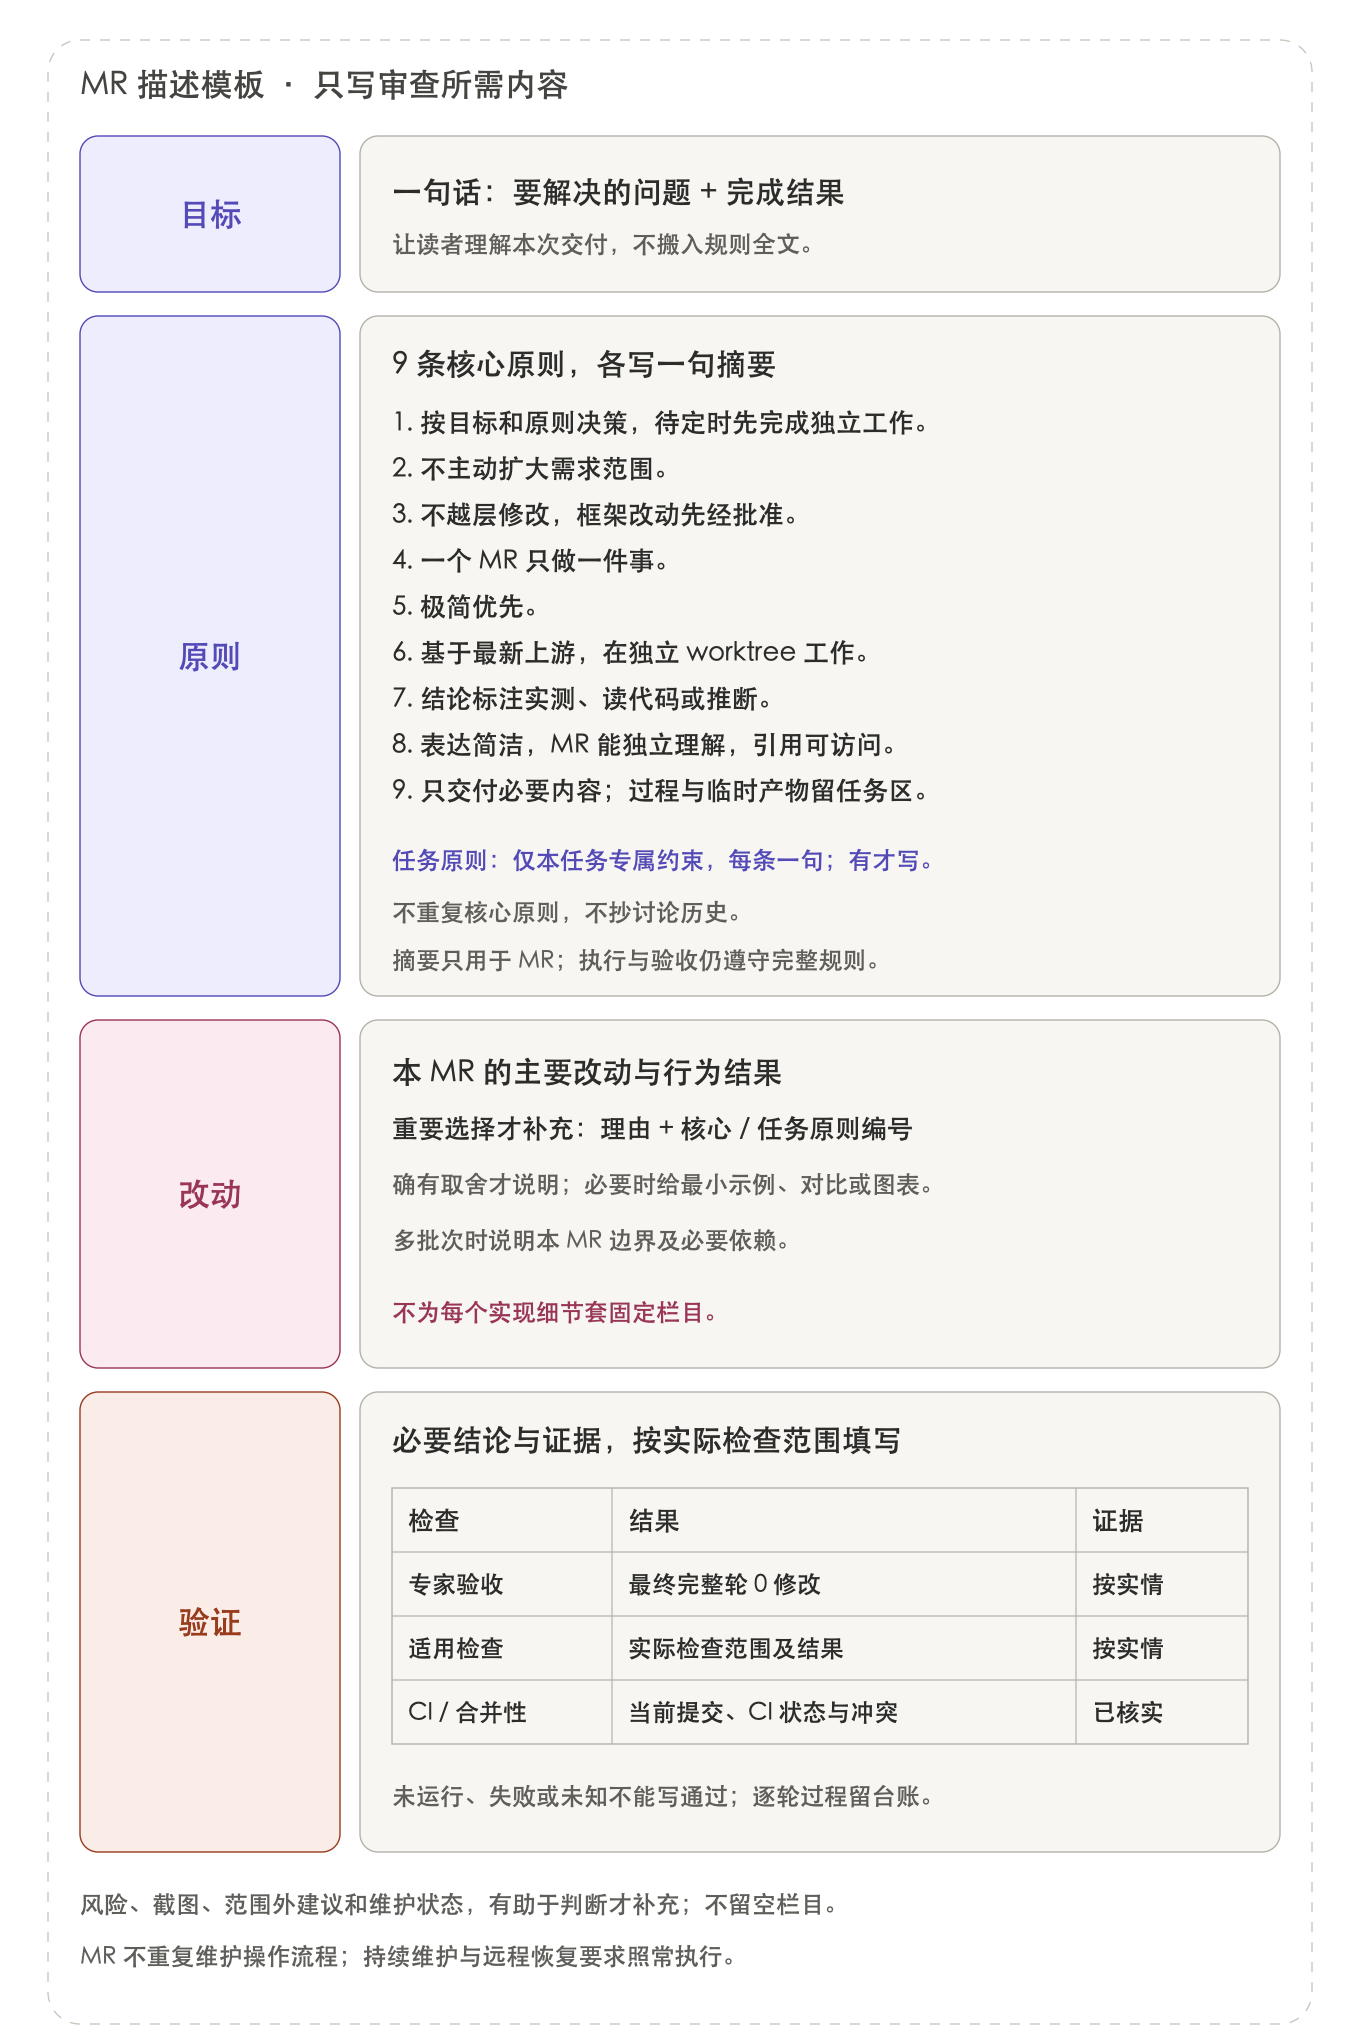
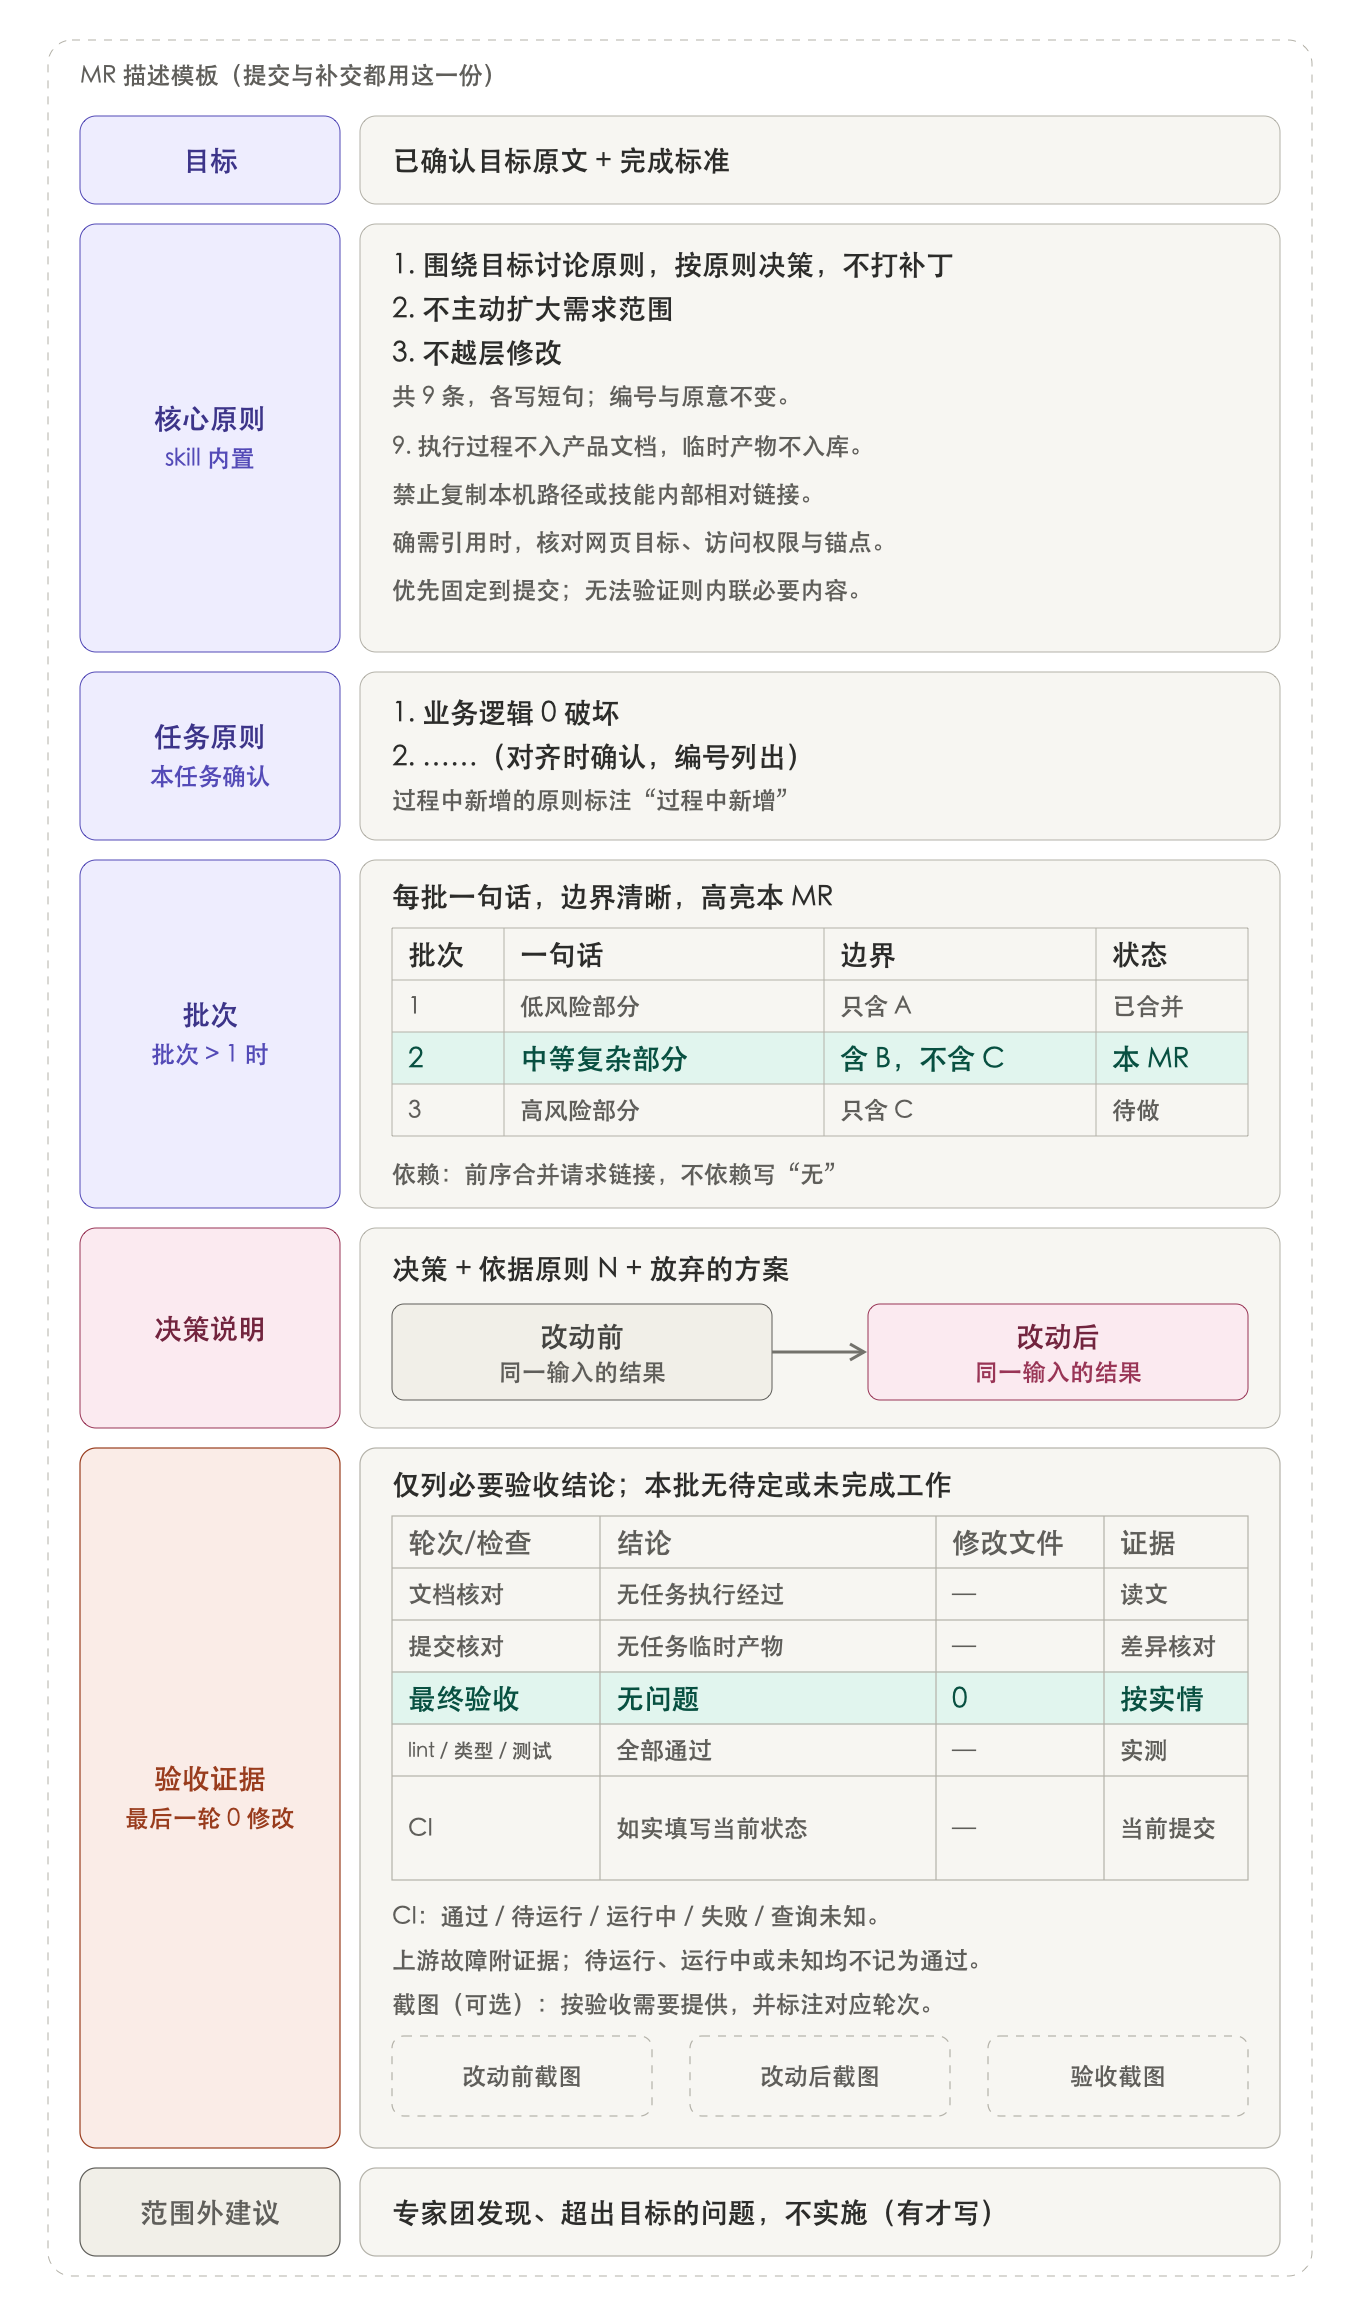
Publish design-preserving MR template snapshot b5622bd

diff --git a/align-deliver/references/mr-template.md b/align-deliver/references/mr-template.md
@@ -1,50 +1,81 @@
 # MR 描述模板
 
-提交、更新或补交 MR 都用这四节。正文帮助读者审查本次交付，不复制技能全文或执行手册。
+提交、更新或补交 MR 用同一模板。保持原有结构和信息要求，只精简措辞；批次 > 1 才列批次表，截图和范围外建议有才写。Agent 的执行、调度与后续维护安排不作为 MR 栏目。
 
 ````markdown
 ## 目标
 
-<一句话说明要解决的问题和完成结果>
+<一句话目标；用户已明确时写其原文>
 
-## 原则
+完成标准：<可验证的结果>
 
-核心原则：
+## 核心原则
 
-1. 按目标和原则决策，待定时先完成独立工作。
-2. 不主动扩大需求范围。
-3. 不越层修改，框架改动先经批准。
-4. 一个 MR 只做一件事。
-5. 极简优先。
-6. 基于最新上游，在独立 worktree 工作。
+1. 围绕目标和原则讨论，用户确认后开工；AI 定细节，待定先完成独立工作，不假定答案、不打补丁。
+2. 范围由目标和原则决定，不预设例外；范围外发现记录、不实施。
+3. 业务问题不越层改框架，框架改动先经用户批准。
+4. 一个 MR 只做一件事，顺手问题单独记录。
+5. 极简优先：最小 API 和示例，复杂就重新设计。
+6. 从最新上游建独立 worktree，方案和代码基于最新代码。
 7. 结论标注实测、读代码或推断。
-8. 表达简洁，MR 能独立理解，引用可访问。
-9. 只提交交付所需内容，任务执行经过和临时产物留在任务工作区。
+8. 中文先给结论和最小示例，能画就画、新概念先解释、一次一问；删去冗余，正文自包含，不用本机路径或技能内部相对链接。
+9. 产品文档不写任务经过，临时产物不入库；只交付已确认目标所需且有实际持续用途的内容，不以改名或未来复用放行。
 
-任务原则（有才写）：<仅列已确认的本任务专属约束，每条一句话>
+## 任务原则
 
-## 改动
+1. <完整列出已确认的任务原则，每条一句话>
+2. <新增原则>（过程中新增）
 
-- <本 MR 的主要改动及行为结果>
-- <重要选择才补充理由及依据的核心/任务原则编号>
+## 批次
 
-## 验证
+| 批次 | 一句话 | 边界 | 状态 |
+|---|---|---|---|
+| 1 | <做什么> | <含什么、不含什么> | <真实状态；本 MR 行加粗> |
 
-| 检查 | 结果 | 证据 |
-|---|---|---|
-| 专家验收 | <最终一轮结论与文件修改数；通过须为 0> | <实测 / 读代码 / 推断> |
-| 适用检查 | <实际检查范围与结果> | <实测 / 读代码 / 推断> |
-| CI 与合并性 | <当前提交、流水线状态、与最新上游是否冲突> | <已核实的链接或结果> |
+依赖：<前序 MR 链接；无则写“无”>
 
-<有助于判断的风险、未覆盖范围或待处理事项；无则不写>
+## 决策说明
+
+### 决策 1：<选择>
+
+- 依据：<核心 / 任务原则编号>
+- 理由：<一句话>
+- 放弃的方案：<方案及原因>
+
+改动前：
+
+```text
+<输入 → 原结果>
+```
+
+改动后：
+
+```text
+<同一输入 → 新结果>
+```
+
+## 验收证据
+
+| 检查 | 结论 | 修改文件 | 证据 |
+|---|---|---|---|
+| 文档内容 | <交付后有效说明，无任务执行经过> | — | 阅读 |
+| 提交范围 | <必要交付内容，无任务临时产物> | — | 差异核对 |
+| 最终专家验收 | <最终完整轮结论；通过须 0 修改> | <数量> | <实测 / 读代码 / 推断> |
+| lint / 类型 / 测试 | <实际范围与结果> | — | 实测 |
+| CI 与合并性 | <当前提交、流水线状态、与最新上游是否冲突> | — | <已核实结果或链接> |
+
+截图（可选）：<图片及验收轮次>
+
+## 范围外建议
+
+- <专家发现的范围外问题，未实施>
 ````
 
 ## 填写要求
 
-- 核心原则保留全部编号，每条只写一句摘要；完整规则仍按技能执行。任务原则只写本任务专属约束，不重复核心原则或抄录讨论历史。正文自包含是让读者理解改动，不是搬入规则全文。
-- 改动只描述本 MR 的有效交付。重要选择简写理由与原则依据；确有取舍才说明，确有助于理解才给最小示例、前后对比或图表，不为每个实现细节套固定栏目。
-- 多批次时说明本 MR 的边界及必要依赖；前序 MR 已终态时如实写明。风险、截图、范围外建议或维护状态仅在有助于审查时补充；维护只写当前事实或阻塞，不重复操作流程，不留空栏目。
-- 验证按实际范围和证据填写；最终完整专家验收须为 0 修改，CI 必须对应当前源提交。排队、运行中、失败或未知不能写通过；必要时注明上游故障及证据。逐轮过程和完整日志留台账。
-- 按核心原则 9 核对实际差异和产品文档，任务执行过程及临时产物不入库；按已确认目标和实际持续用途判断，不能靠改名或未来可能复用放行。MR 不复制本机路径或技能内部相对链接；必要引用须核对网页内容、访问性与锚点，无法核实则内联必要说明。
-
-模板精简只改变 MR 的表达；提交、失败恢复和覆盖全部 MR 的持续维护仍按技能流程执行。
+- 九条核心原则保留编号和原意，各用短句，不搬入长解释；完整规则照常执行。任务原则完整列出，不遗漏已确认约束；过程中新增的原则保留标记。
+- 每个决策分开列，分别写依据、理由、放弃方案及一组同一输入的前后结果；示例只留能看出差别的几行。需要解释修复时写明对应原则，说不出违反哪条原则的修改，就不该改。
+- 批次和边界沿用台账，只更新真实状态，本 MR 行加粗；新 MR 只描述未交付差异，保留承接关系，已合并的旧 MR 不写成待合并依赖。
+- MR 保留最终完整轮 0 修改结论和必要证据；逐轮执行、排障和完整日志留台账。CI 对应当前源提交；未运行、运行中、失败或未知不写通过。上游故障附证据，保持待恢复，不扩范围修复。
+- 按原则 9 审查文档及真实差异：正式代码、文档、测试和工具须属于已确认目标且有实际持续用途；任务过程产物不入库，改名或未来可能复用不能放行。
+- 正文自包含，不复制本机路径或技能内部相对链接。必要网页引用核对内容、权限与锚点，优先固定到提交；无法核实则内联必要说明，不编造链接。

diff --git a/align-deliver/references/core-principles.md b/align-deliver/references/core-principles.md
@@ -1,6 +1,6 @@
 # 核心原则
 
-每个对齐交付任务都适用。对齐阶段按编号逐条复述，专家团按完整规则逐条验收；MR 中保留全部编号，每条只写一句摘要，不复制以下解释。提交后的维护仍遵守这些原则：有工作先做，远程失败保留恢复路径，直到本任务全部 MR 已合并、关闭或取消。
+每个对齐交付任务都适用。对齐阶段按编号逐条复述，MR 描述中按编号完整列出短句，不复制长解释，专家团按编号逐条验收。提交后的维护仍遵守这些原则：有工作先做，远程失败保留恢复路径，直到本任务全部 MR 已合并、关闭或取消。
 
 1. **围绕目标讨论原则，按原则决策，不打补丁**：需求和讨论都只围绕目标讨论原则，不讨论细节。用户定目标、原则和开工，初始对齐必须先确认；AI 定原则之内的细节，并写明依据哪条原则。开工后遇到原则缺失或冲突，只暂停依赖该原则的部分，先完成并验证独立工作，再讨论仍然阻塞任务的问题；没有可独立推进的工作时立即提问。不得假定待定原则的答案或把未决项算作完成；讨论只问原则、附最小示例，不让用户选实现方案，也不打补丁。
 2. **不主动扩大需求范围**：范围由目标和原则决定，原则要求覆盖的都在范围内，不能预设例外；超出目标的发现只记为“范围外建议”，不实施。
@@ -9,6 +9,6 @@
 5. **极简优先**：先给最小的 API、最小的示例；感觉复杂就回退重新设计。
 6. **以最新上游为准，独立 worktree**：每个任务在独立 worktree 中工作，从同步后的最新上游拉分支；方案和代码都基于最新代码。
 7. **结论标注证据等级**：实测 / 读代码 / 推断。
-8. **讲清楚**：先给一句话结论，示例和图表只在帮助判断时提供；必要的新概念先解释，全程中文，删去不影响判断的信息，一次只问一个问题。MR 正文须简洁且能独立理解，不复制本机路径或技能内部相对链接。
+8. **讲清楚**：先给一句话结论，再给最小示例；适合比较或说明关系时使用图表，必要的新概念先解释，全程中文，删去不影响判断的信息，一次只问一个问题。MR 正文须能独立理解，不复制本机路径或技能内部相对链接。
 
 9. **交付内容不混入任务执行过程**：产品文档只写交付后仍有效的说明，不写任务实施、临时排障和验收执行的经过。仅服务本次任务的初始化脚本、基线准备、临时验证脚本、过程日志、报告、截图及状态等产物留在任务工作区，不提交到交付仓库。入库内容必须属于已确认的交付目标，并在任务结束后仍有实际使用或维护价值；不能以改名或“以后可复用”为由提交过程产物。必要的验收结论和证据放在 MR 交付说明或任务台账。

diff --git a/README.md b/README.md
@@ -1,21 +1,21 @@
 # align-deliver
 
-对齐交付技能的独立公开分发。固定版本：`bc853b194d120a569040d95ea164e5251040eaad`。
+对齐交付技能的独立公开分发。固定版本：`b5622bd257facc8250cb817c766571373324335c`。
 
 先对齐目标和原则，再研发、专家验收与提交 MR；有工作先做，远程失败按检查点恢复，持续维护全部 MR。旧 MR 已终态后的新工作转入新分支与新 MR。
 
 ## 下载
 
-- [完整安装包](https://github.com/lzxb/align-deliver/releases/download/v2026.10.24-bc853b1/align-deliver-bc853b1.zip)：仅包含 `align-deliver/` 下已验收的 10 个文件。
-- [SHA256SUMS](https://github.com/lzxb/align-deliver/releases/download/v2026.10.24-bc853b1/SHA256SUMS)
-- [版本发布页](https://github.com/lzxb/align-deliver/releases/tag/v2026.10.24-bc853b1)
+- [完整安装包](https://github.com/lzxb/align-deliver/releases/download/v2026.10.24-b5622bd/align-deliver-b5622bd.zip)：仅包含 `align-deliver/` 下已验收的 10 个文件。
+- [SHA256SUMS](https://github.com/lzxb/align-deliver/releases/download/v2026.10.24-b5622bd/SHA256SUMS)
+- [版本发布页](https://github.com/lzxb/align-deliver/releases/tag/v2026.10.24-b5622bd)
 
 ## macOS / Linux 安装
 
 需要 `curl`、`unzip`，以及 `sha256sum` 或 `shasum`。
 
 ```sh
-curl -fL 'https://github.com/lzxb/align-deliver/releases/download/v2026.10.24-bc853b1/install.sh' -o /tmp/install-align-deliver.sh
+curl -fL 'https://github.com/lzxb/align-deliver/releases/download/v2026.10.24-b5622bd/install.sh' -o /tmp/install-align-deliver.sh
 sh /tmp/install-align-deliver.sh
 ```
 
@@ -32,7 +32,7 @@ sh /tmp/install-align-deliver.sh /path/to/skills
 ## 版本校验
 
 ```text
-b9f2c783528bd380209124370127b41e09a0debe00174390867587155b7d7557  align-deliver-bc853b1.zip
+9ab83fc43084d10e7f1528fcb47397b389b018271dad278a6d8b46c0422bb4c1  align-deliver-b5622bd.zip
 ```
 
 本仓库分发固定快照；更新不会自动覆盖已安装版本。

diff --git a/align-deliver/references/explain-clearly.md b/align-deliver/references/explain-clearly.md
@@ -5,7 +5,7 @@
 ## 回答的形状
 
 ```
-一句话结论 → 有助于判断的示例或图表（需要才写）→ 需要用户决定的事（有才写）
+一句话结论 → 最小示例（改动前 → 改动后）→ 图 / 表 → 需要用户决定的事（有才写）
 ```
 
 **该不该写**：每一句都问一遍——删掉这句，用户还能不能做出判断？能，就删。过程、背景、用户已经知道的事、重复的话，都删。
@@ -21,8 +21,8 @@
 | # | 规则 | 反例 | 正例 |
 |---|---|---|---|
 | 1 | 一句话直接回答 | “先介绍一下背景：这个模块最早是……” | “不通过：删除了 3 个对外接口，违反原则 3。” |
-| 2 | 示例只为说明必要差别 | 每个决策都套一组前后代码块 | 需要说明参数变化时，用 `getUser(id)` → `getUser({ id })` |
-| 3 | 图表帮助判断才用 | 为一句简单结论附一张图 | 比较模块依赖时，用表说明谁调用谁、传什么、返回什么 |
+| 2 | 必须给最小示例 | “参数的处理方式在多个地方不一致……” | `getUser(id)` → `getUser({ id })` |
+| 3 | 能画就画 | 用三段文字描述两个模块的依赖关系 | 一张表：谁调用谁、传什么、返回什么 |
 | 4 | 新词先解释，否则不用 | “这里触发了 stale closure” | “回调里拿到的是旧值，因为它在第一次渲染时就固定了” |
 | 5 | 不打比方，说真实问题 | “把缓存想成一个仓库管理员……” | “缓存的 key 没有包含用户 ID，所以 A 看到了 B 的数据” |
 | 6 | 不写过程 | “我先试了方案 A，测试失败，又去看日志才发现……” | “原因：时区没有转换。已修复。” |
